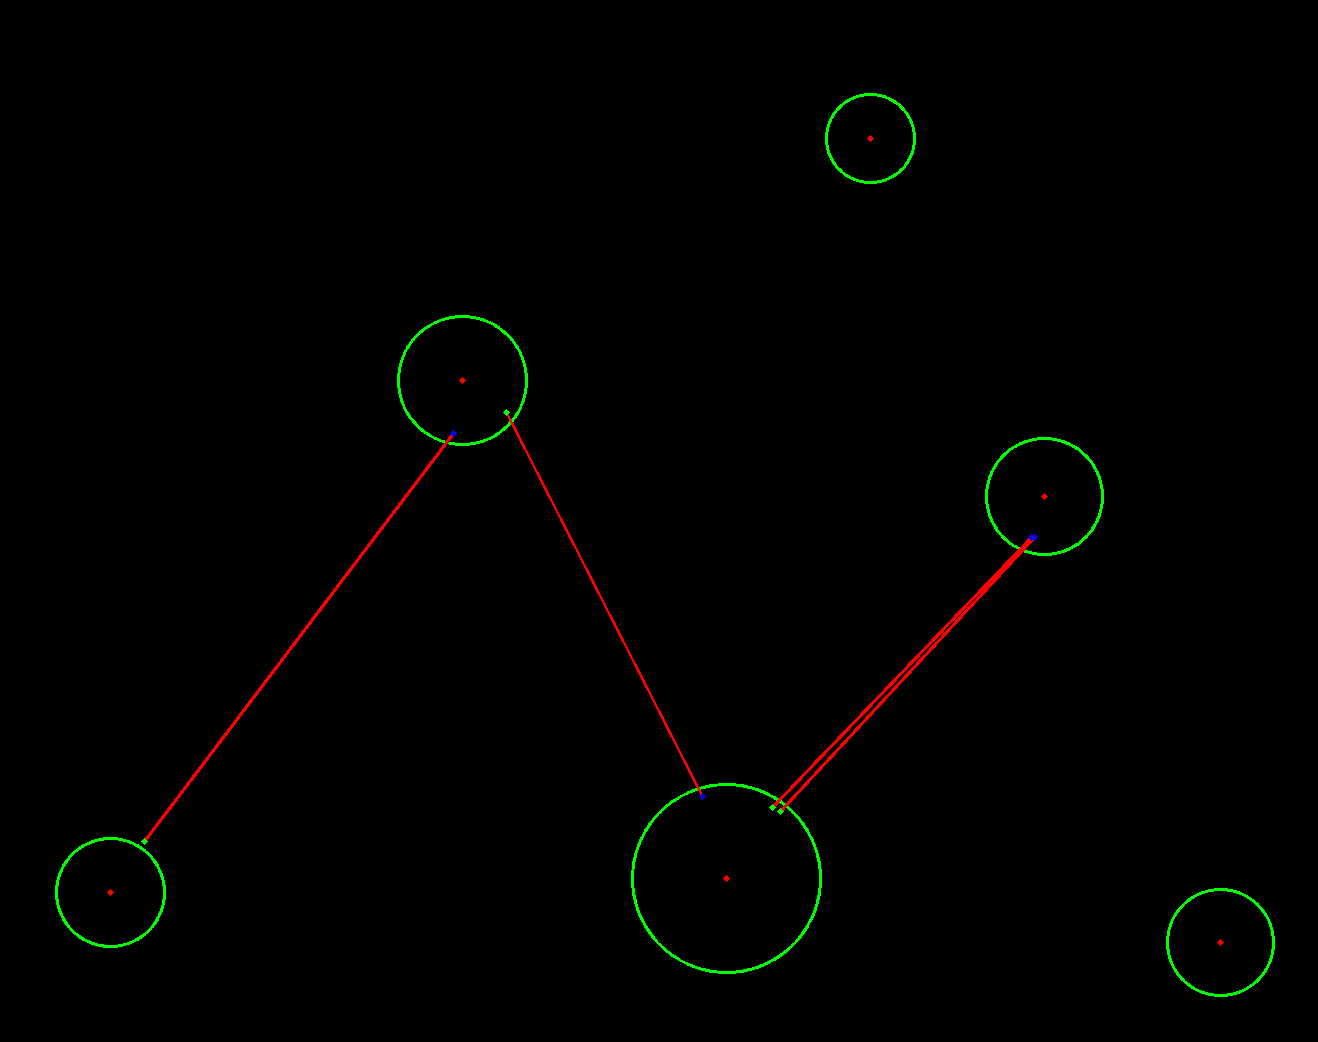
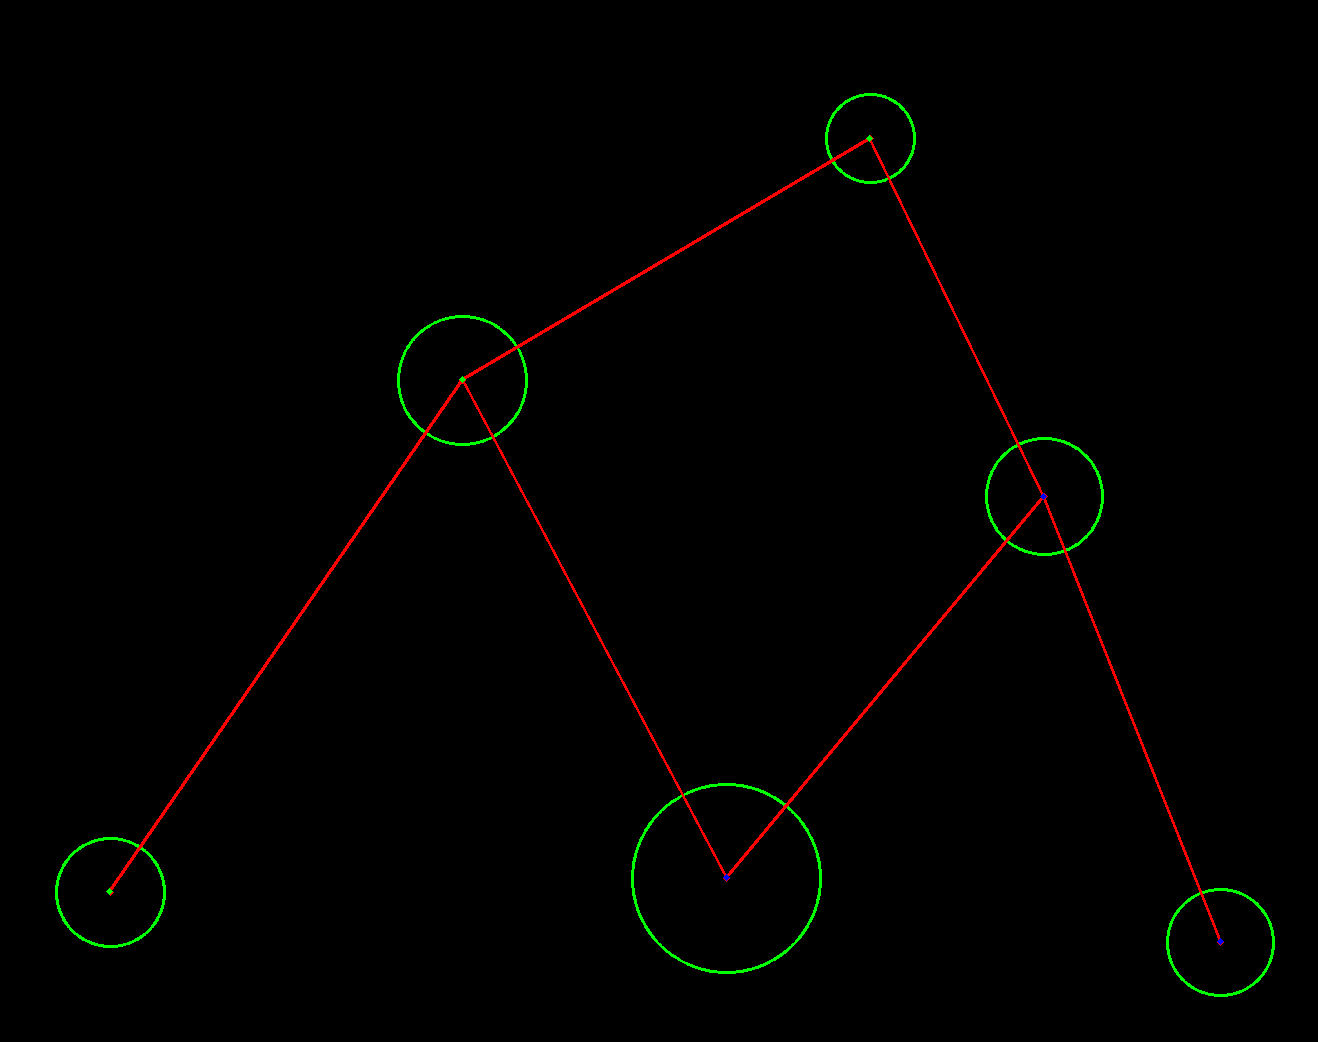
Merging of lines (not working very good)

diff --git a/algo-whiteboard.py b/algo-whiteboard.py
@@ -1,6 +1,7 @@
 import cv2
 import numpy as np 
 from math import *
+import random
 
 #image_path = "newGood/randomGraph50_80.png"
 folder_path = "whiteboard/"
@@ -80,7 +81,8 @@ def detectEdges(img): #https://www.geeksforgeeks.org/line-detection-python-openc
   edges = cv2.Canny(gray,50,150,apertureSize=3)
   #Apply HoughLinesP method to 
   #to directly obtain line end points
-  lines_list =[]
+  lines_list = []
+  """
   lines = cv2.HoughLinesP(
               edges, #Input edge image
               2, #Distance resolution in pixels
@@ -88,7 +90,24 @@ def detectEdges(img): #https://www.geeksforgeeks.org/line-detection-python-openc
               threshold=40, #Min number of votes for valid line
               minLineLength=5, #Min allowed length of line
               maxLineGap=70 #Max allowed gap between line for joining them
+              )"""
+  iterations = 200 #bit high, but only way to consistently find all edges
+  for i in range(iterations):
+    detected_lines = cv2.HoughLinesP(
+              edges, #Input edge image
+              1, #Distance resolution in pixels
+              np.pi/180, #Angle resolution in radians
+              threshold = random.randint(1, 100), #Min number of votes for valid line
+              minLineLength = random.randint(1, 50), #Min allowed length of line
+              maxLineGap = random.randint(1, 100) #Max allowed gap between line for joining them
               )
+    try:
+      if i == 0:
+        lines = detected_lines.copy()
+      else:
+        lines = np.append(lines, detected_lines.copy(), axis=0)
+    except:
+      continue
 
   #make the detected lines longer, so they go inside the vertices
   for points in lines:
@@ -141,19 +160,30 @@ def checkIfInCircle(point,circles):
 
 def connectVertices(vertices, edges):
   adj_list = {}
-  true_edges=[]
+  true_edges = {}
+  correct_edges = []
   for v in vertices:
   	adj_list[v] = set()
 
   for edge in edges:
     v1 = checkIfInCircle((edge[0], edge[1]), vertices)
     v2 = checkIfInCircle((edge[2], edge[3]), vertices)
-    if v1 and v2 and (not(v1==v2)):
-      adj_list[v1].add(v2)
-      adj_list[v2].add(v1)
-      true_edges.append(edge)
+    if v1 and v2 and (not(v1==v2)):     
+      try:
+        true_edges[tuple(sorted((v1,v2)))] += 1
+      except:
+        true_edges[tuple(sorted((v1,v2)))] = 0
+      
+  for edge in true_edges:
+    if true_edges[edge] >= 0:
+      correct_edges.append(edge)
   
-  return adj_list, true_edges
+  for edge in correct_edges:
+    v1 = edge[0]
+    v2 = edge[1]
+    adj_list[v1].add(v2)
+    adj_list[v2].add(v1)
+  return adj_list, correct_edges
 
 def drawExtractedGraph(vertices, edges, image):
   blank_image = np.zeros(shape=(image.shape), dtype=np.int16)
@@ -170,7 +200,12 @@ def drawExtractedGraph(vertices, edges, image):
     cv2.circle(blank_image, (a, b), 1, (0, 0, 255), 3) 
 
   for edge in edges:
-    x1,y1,x2,y2 = edge
+    x1,y1 = edge[0][0:2]
+    x2,y2 = edge[1][0:2]
+    x1 = int(x1)
+    y1 = int(y1)
+    x2 = int(x2)
+    y2 = int(y2)
     cv2.line(blank_image, (x1,y1), (x2,y2), (0,0,255), 2)
     cv2.circle(blank_image, (x1, y1), 1, (0, 255, 0), 3) 
     cv2.circle(blank_image, (x2, y2), 1, (255, 0, 0), 3) 
